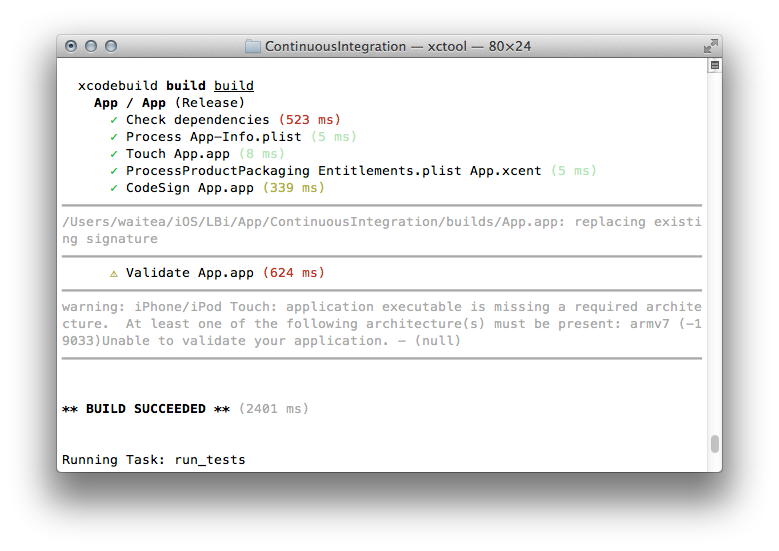
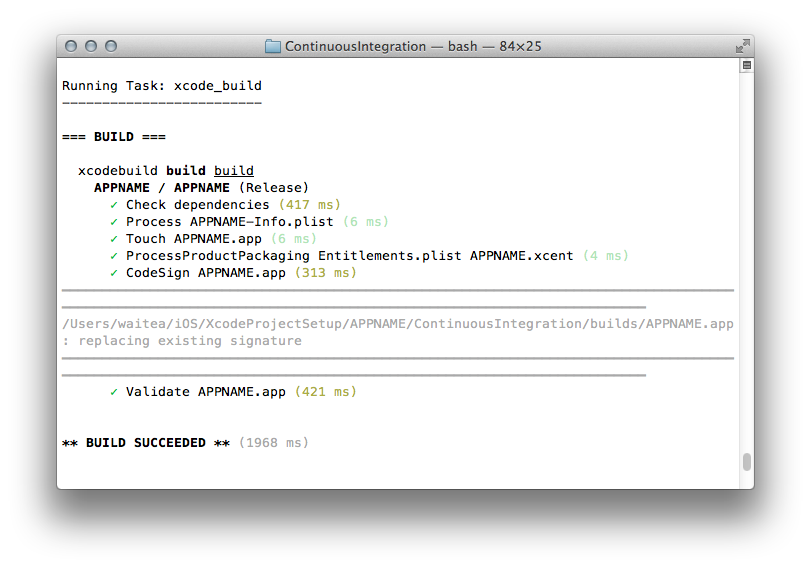
Rewritten config access. The .ipa output needs work tomorrow.

Changed region(s): [[0.0616, 0.0617, 0.9551, 0.8639], [0.7086, 0.3085, 0.7702, 0.3394]]

diff --git a/APPNAME/ContinuousIntegration/tasks/decorate_icon.rb b/APPNAME/ContinuousIntegration/tasks/decorate_icon.rb
@@ -6,10 +6,9 @@ module ContiniOSIntegration
     
     # config
     runner = ContiniOSIntegration::CITaskRunner.instance
-    config = runner.config
             
     # reference all of the icon files
-    icon_dir = "../App/Resources/Assets/Images/Icon/"
+    icon_dir = runner.get_config :icon_path
 		icon_files = lambda do
       icon_paths = []
       Find.find("#{icon_dir}") do |path| 
@@ -38,23 +37,11 @@ module ContiniOSIntegration
       # set parameters for the annotation
       annotation_params = { gravity: Magick::SouthGravity, pointsize: icon_dimension * 0.11 , stroke: 'transparent', fill: '#FFF', font_family: "Helvetica CY", font_weight: Magick::BoldWeight}
       
-      # draw the SVN revision (switched off at the moment)  
-      if !svn_v_number.nil? and false
-        revision_text = Magick::Draw.new
-        revision_text.annotate(decorated_icon, 0, 0, 0, icon_dimension * 0.06, "rev: #{svn_v_number}") do
-          self.gravity = annotation_params[:gravity]
-          self.pointsize = annotation_params[:pointsize]
-          self.stroke = annotation_params[:stroke]
-          self.fill = annotation_params[:fill]
-          self.font_family = annotation_params[:font_family]
-          self.font_weight = annotation_params[:font_weight] 
-        end
-      end
-      
       # draw the version number
-      if !runner.new_version_number.nil?
+      new_v_number = runner.get_config :new_version_number
+      if !new_v_number.nil?
         version_text = Magick::Draw.new
-        version_text.annotate(decorated_icon, 0, 0, 0, icon_dimension * 0.05  , "#{runner.new_version_number}") do
+        version_text.annotate(decorated_icon, 0, 0, 0, icon_dimension * 0.05  , "#{new_v_number}") do
           self.gravity = annotation_params[:gravity]
           self.pointsize = annotation_params[:pointsize]
           self.stroke = annotation_params[:stroke]

diff --git a/APPNAME/ContinuousIntegration/tasks/create_ipa.rb b/APPNAME/ContinuousIntegration/tasks/create_ipa.rb
@@ -4,30 +4,28 @@ module ContiniOSIntegration
     
     # config
     runner = ContiniOSIntegration::CITaskRunner.instance
-    config = runner.config
         
-    # handle nil required parameters    
-    runner send terminate_with_err "a code signing identity must be provided to package an iOS app" if config[:options][:code_sign].nil?
-    runner send terminate_with_err "a provisioning profile path must be provided to package an iOS app" if config[:options][:provisioning_profile].nil?
-    
     # app data arguments
-    app_name = config[:options][:app_name]
-    new_version_number = runner.new_version_number
+    app_name = runner.get_config :app_name
+    new_version_number = runner.get_config :new_version_number
 		
     # SDK argument
-    sdk = "iphoneos"
+    sdk = runner.get_config :sdk
     sdk_arg = "-sdk #{sdk}"
 		
     # build and output dir arguments
-    build_dir = output_dir = runner.build_dir
+    build_dir = output_dir = runner.get_config :build_dir
     
     # code sign and provisioning arguments
-    code_sign = config[:options][:code_sign]
-		prov_profile = "../Provisioning/#{config[:options][:provisioning_profile]}"
+    code_sign = runner.get_config :code_sign
+    prov_profile = runner.get_config :provisioning_profile
       
+    # output file name  
+    output_file_name = new_version_number.nil? ? "#{output_dir}#{app_name}-#{new_version_number}.ipa" : "#{output_dir}#{app_name}.ipa"
+    
     # package the app
-		system "/usr/bin/xcrun #{sdk_arg} PackageApplication -v #{build_dir}#{app_name}.app -o #{output_dir}#{app_name}-#{new_version_number}.ipa --sign \"#{code_sign}\" --embed \"#{prov_profile}\""
-
+		system "/usr/bin/xcrun #{sdk_arg} PackageApplication -v #{build_dir}#{app_name}.app -o #{output_file_name} --sign \"#{code_sign}\" --embed \"#{prov_profile}\""
+    
   end
   
 end

diff --git a/APPNAME/ContinuousIntegration/tasks/xcode_build.rb b/APPNAME/ContinuousIntegration/tasks/xcode_build.rb
@@ -4,31 +4,30 @@ module ContiniOSIntegration
     
     # config
     runner = ContiniOSIntegration::CITaskRunner.instance
-    config = runner.config
     
     # app name argument
-    app_name = runner.app_name
+    app_name = runner.get_config :app_name
     
     # handle undefined requirements
-    runner.terminate_with_err "An app name must be specified in the config options to run xcode_build" if runner.app_name.nil?
+    runner.terminate_with_err "An app name must be specified in the config options to run xcode_build" if app_name.nil?
     		  
     # workspace argument
-    workspace_arg = "-workspace #{runner.workspace}"
+    workspace_arg = "-workspace #{runner.get_config :workspace}"
     
     # SDK argument
-    sdk = "iphoneos"
+    sdk = runner.get_config :sdk
     sdk_arg = "-sdk #{sdk}"
     
     # scheme argument
-		scheme = config[:options][:scheme].nil? ? app_name : config[:options][:scheme]
+		scheme = runner.get_config :scheme
     scheme_arg = "-scheme #{scheme}"
     
     # configuration argument
-		configuration = config[:options][:configuration].nil? ? nil : config[:options][:configuration]
+		configuration = runner.get_config :build_configuration
     configuration_arg = configuration.nil? ? "" : "-configuration #{configuration}"
 		
     # build directory argument
-    build_dir = runner.build_dir
+    build_dir = runner.get_config :build_dir
     build_dir_arg = "CONFIGURATION_BUILD_DIR=\"#{build_dir}\""
         
     # perform build

diff --git a/APPNAME/ContinuousIntegration/continios_integration.rb b/APPNAME/ContinuousIntegration/continios_integration.rb
@@ -24,6 +24,12 @@ module ContiniOSIntegration
       set_config :app_name, file_config[:options][:app_name]
       set_config :build_dir, file_config[:options][:build_dir].nil? ? Dir.getwd + "/builds/" : file_config[:options][:build_dir]
       set_config :app_dir, file_config[:options][:app_dir].nil? ? "#{get_config :app_name}" : file_config[:options][:app_dir]
+      set_config :icon_path, file_config[:options][:icon_path].nil? ? "../#{get_config :app_name}/Resources/Assets/Images/Icon/" : file_config[:options][:icon_path]
+      set_config :scheme, file_config[:options][:scheme].nil? ? "App" : file_config[:options][:scheme]
+      set_config :build_configuration, file_config[:options][:build_configuration].nil? ? nil : file_config[:options][:build_configuration]
+      set_config :sdk, file_config[:options][:sdk].nil? ? "iphoneos" : file_config[:options][:sdk]
+      set_config :code_sign, file_config[:options][:code_sign]
+      set_config :provisioning_profile, file_config[:options][:provisioning_path].nil? ? "../Provisioning/#{file_config[:options][:provisioning_profile]}" : "#{file_config[:options][:provisioning_path]}#{file_config[:options][:provisioning_profile]}" 
       set_config :plist_path, (lambda do
         plist_file_paths = []
         Find.find("../#{get_config :app_dir}/SupportingFiles/") { |path| plist_file_paths << path if path =~ /.*\.plist$/ }

diff --git a/APPNAME/ContinuousIntegration/tasks/run_tests.rb b/APPNAME/ContinuousIntegration/tasks/run_tests.rb
@@ -7,31 +7,20 @@ module ContiniOSIntegration
     
     # config
     runner = ContiniOSIntegration::CITaskRunner.instance
-    config = runner.config
-  
-    # app name argument
-    app_name = runner.app_name
-  
-    # handle undefined requirements
-    runner.terminate_with_err "An app name must be specified in the config options to run xcode_build" if runner.app_name.nil?
   		  
     # workspace argument
-    workspace_arg = "-workspace #{runner.workspace}"
-  
-    # SDK argument
-    sdk = "iphonesimulator"
-    sdk_arg = "-sdk #{sdk}"
+    workspace_arg = "-workspace #{runner.get_config :workspace}"
   
     # scheme argument
-		scheme = config[:options][:scheme].nil? ? app_name : config[:options][:scheme]
+		scheme = runner.get_config :scheme
     scheme_arg = "-scheme #{scheme}"
   
     # configuration argument
-		configuration = config[:options][:configuration].nil? ? nil : config[:options][:configuration]
+		configuration = runner.get_config :scheme
     configuration_arg = configuration.nil? ? "" : "-configuration #{configuration}"
 	
     # build directory argument
-    build_dir = runner.build_dir
+    build_dir = runner.get_config :build_dir
     build_dir_arg = "CONFIGURATION_BUILD_DIR=\"#{build_dir}\""
       
     # perform build

diff --git a/APPNAME/APPNAMETests/APPNAMETests.m b/APPNAME/APPNAMETests/APPNAMETests.m
@@ -22,7 +22,7 @@
 
 - (void)testExample
 {
-	STAssertEquals(YES, YES, @"This is going to fail miserably...");
+	STAssertEquals(YES, NO, @"This is going to fail miserably...");
 }
 
 @end
